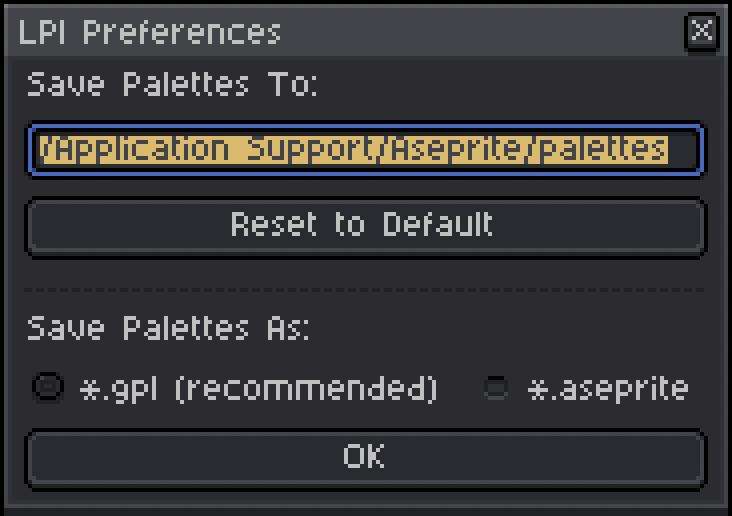
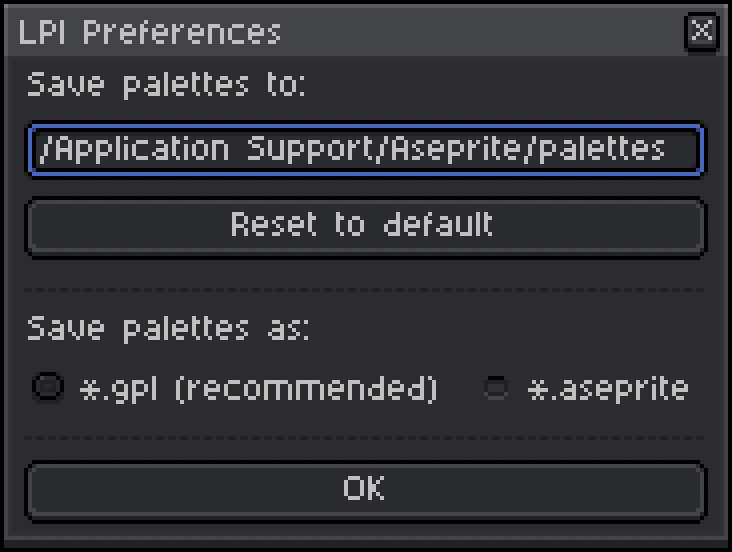
UI/UX tweaks for quality of life and visual consistency

diff --git a/README.md b/README.md
@@ -13,9 +13,11 @@ Version 1.4.1 fixes a few bugs somebody introduced in the last update 😅 and i
 - Remove a rogue `print` statement that somehow got left in the last build
 - UI/UX improvements
     - Improved layout of the import dialog
+    - Tweak preferences dialog for visual consistency
     - "OK" on the import dialog is now "Import" because that makes more sense
     - "Cancel" on the palette preview dialog is now "Back...", and clicking on it will return you to the import dialog. This way you can redo your search or "re-roll" your random palette (thanks to Lospec Discord user **@cptn.piranha** for the idea!)
-    - Closing the warning dialog that shows up after entering an empty or malformed palette name will now return to the import dialog instead of closing the extension altogether
+    - Closing the warning dialog that shows up after entering an empty or malformed palette name will now return you to the import dialog instead of closing the extension altogether
+    - Closing the dialog that shows up after searching for a palette that doesn't exist will now return you to the import dialog instead of closing the extension altogether
 - Update how metadata for GPL palettes is formatted in order to deal with an Aseprite issue where palette info text won't show up
     - **NOTE**: I'm not sure *what* is causing this bug, but I've tested the new format and any newly imported palettes shouldn't be affected. The relevant GitHub issue is [#5014](https://github.com/aseprite/aseprite/issues/5104)
 
